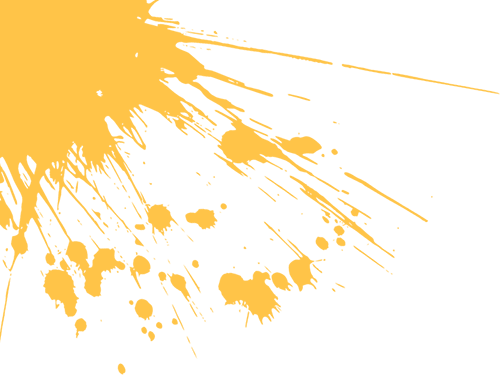
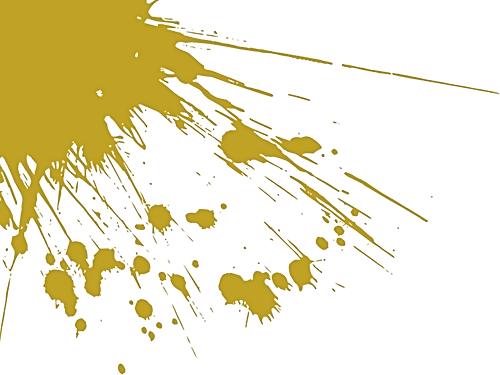
bg-style

diff --git a/index.html b/index.html
@@ -81,7 +81,7 @@
                     <h3 class="text-primary mb-3">I'm</h3>
                     <h1 class="display-3 mb-3 ">Mario Blasi</h1>
                     <h2 class="typed-text-output d-inline"></h2>
-                    <div class="typed-text d-none ">Web Designer, Web Developer, Front End Developer, Back End Developer, Apps Designer, Apps Developer</div>
+                    <div class="typed-text d-none "> Front End Developer, Web Designer, Web Developer, Back End Developer, Apps Designer, Apps Developer</div>
                     <div class="d-flex align-items-center pt-5 ">
                         <a href="https://www.linkedin.com/in/mario-blasi/" class="btn btn-primary py-3 px-4 me-5 shadow" target="_blank">Linkedin
                         <svg xmlns="http://www.w3.org/2000/svg" width="20" height="20" viewBox="0 0 24 24" fill="none" stroke="currentColor" stroke-width="2" stroke-linecap="round" stroke-linejoin="round">
@@ -94,7 +94,7 @@
                     </div>
                 </div>
                 <div class="col-lg-6">
-                    <img class="img-fluid shadow" src="img/profile.jpeg" alt="">
+                    <img class="img-fluid" src="/img/profile.jpeg" alt="">
                 </div>
             </div>
         </div>
@@ -375,7 +375,7 @@
             </div>
             <div class="row g-4">
                 <div class="col-lg-6 wow fadeInUp" data-wow-delay="0.1s">
-                    <div class="service-item d-flex flex-column flex-sm-row bg-white rounded h-100 p-4 p-lg-5">
+                    <div class="service-item d-flex flex-column flex-sm-row bg-white rounded h-100 p-4 p-lg-5 shadow-lg">
                         <div class="bg-icon flex-shrink-0 mb-3">
                             <i class="fa fa-crop-alt fa-2x text-dark"></i>
                         </div>
@@ -387,7 +387,7 @@
                     </div>
                 </div>
                 <div class="col-lg-6 wow fadeInUp" data-wow-delay="0.3s">
-                    <div class="service-item d-flex flex-column flex-sm-row bg-white rounded h-100 p-4 p-lg-5">
+                    <div class="service-item d-flex flex-column flex-sm-row bg-white rounded h-100 p-4 p-lg-5 shadow-lg">
                         <div class="bg-icon flex-shrink-0 mb-3">
                             <i class="fa fa-code-branch fa-2x text-dark"></i>
                         </div>
@@ -399,7 +399,7 @@
                     </div>
                 </div>
                 <div class="col-lg-6 wow fadeInUp" data-wow-delay="0.1s">
-                    <div class="service-item d-flex flex-column flex-sm-row bg-white rounded h-100 p-4 p-lg-5">
+                    <div class="service-item d-flex flex-column flex-sm-row bg-white rounded h-100 p-4 p-lg-5 shadow-lg">
                         <div class="bg-icon flex-shrink-0 mb-3">
                             <i class="fa fa-code fa-2x text-dark"></i>
                         </div>
@@ -411,7 +411,7 @@
                     </div>
                 </div>
                 <div class="col-lg-6 wow fadeInUp" data-wow-delay="0.3s">
-                    <div class="service-item d-flex flex-column flex-sm-row bg-white rounded h-100 p-4 p-lg-5">
+                    <div class="service-item d-flex flex-column flex-sm-row bg-white rounded h-100 p-4 p-lg-5 shadow-lg">
                         <div class="bg-icon flex-shrink-0 mb-3">
                             <i class="fa fa-laptop-code fa-2x text-dark"></i>
                         </div>

diff --git a/css/style.css b/css/style.css
@@ -129,14 +129,15 @@
   }
   
   .nav-pills .nav-link:hover {
-    transform: translateY(-17px); /* Effetto di sollevamento maggiore al passaggio del mouse */
+    transform: translateY(-15px); /* Effetto di sollevamento maggiore al passaggio del mouse */
     box-shadow: 0 12px 20px rgba(0, 0, 0, 0.3); /* Ombra più evidente */
   }
 
 /*** Header ***/
 #home {
     margin-bottom: 6rem;
-    background: url(../img/bg-header.png) left top no-repeat;
+    background: url(../img/bg-test2-Photoroom.png-Photoroom.png) left top no-repeat;
+   
 }
 
 .typed-cursor {
@@ -209,7 +210,7 @@
     display: flex;
     align-items: center;
     justify-content: center;
-    background: url(../img/bg-icon.png) center center no-repeat;
+    background: url(../img/bg-icon-Photoroom.png-Photoroom.png) center center no-repeat;
     background-size: cover;
 }
 
@@ -273,18 +274,7 @@
     height: 300px; 
 }
 
-
-  
 /** audio **/
 
-#audioPlayer {
-    box-shadow: 0 4px 8px rgba(0, 0, 0, 0.2); /* Effetto ombra */
-    border-radius: 10px; /* Bordi arrotondati */
-    padding: 10px; /* Spaziatura interna */
-    transition: box-shadow 0.3s ease; /* Transizione per l'effetto ombra */
-  }
   
-  #audioPlayer:hover {
-    box-shadow: 0 8px 16px rgba(0, 0, 0, 0.2); /* Effetto ombra aumentato al passaggio del mouse */
-  }
   

diff --git a/js/main.js b/js/main.js
@@ -115,6 +115,6 @@
      // audio controls
     document.addEventListener("DOMContentLoaded", function() {
         var audio = document.getElementById("audioPlayer");
-        audio.volume = 0.5; // vol 50%
+        audio.volume = 0.3; // vol 30%
     });
       
